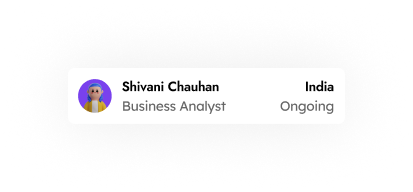
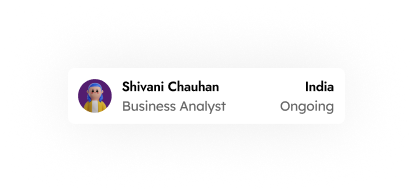
theme change

Changed region(s): [[0.1743, 0.4062, 0.2906, 0.5625]]

diff --git a/src/app/components/career.tsx b/src/app/components/career.tsx
@@ -1,6 +1,7 @@
 "use client";
-import React, { useRef } from "react";
-import { motion, useInView } from "framer-motion";
+
+import React, { useEffect, useState } from "react";
+import { motion } from "framer-motion";
 import Image from "next/image";
 
 const positions = [
@@ -35,14 +36,47 @@ const fadeInUp = {
 };
 
 const CareerSection = () => {
-  const ref = useRef(null);
-  const isInView = useInView(ref, { once: true });
+  const [scrollDuration, setScrollDuration] = useState(180);
+
+  useEffect(() => {
+    const handleResize = () => {
+      const isMobile = window.innerWidth < 768;
+      setScrollDuration(isMobile ? 260 : 100);
+    };
+
+    handleResize();
+    window.addEventListener("resize", handleResize);
+    return () => window.removeEventListener("resize", handleResize);
+  }, []);
+
+  const renderLoopingRow = (reverse = false) => (
+    <div className={`relative w-full overflow-hidden`}>
+      <motion.div
+        className={`flex space-x-3 ${reverse ? "flex-row-reverse" : ""}`}
+        animate={{ x: reverse ? ["0%", "-50%"] : ["-50%", "0%"] }}
+  transition={{ duration: scrollDuration, repeat: Infinity, ease: "linear" }}
+        style={{ width: "200%" }}
+      >
+        {[...images, ...images].map((src, index) => (
+          <div
+            key={`${reverse ? "r" : "f"}-${index}`}
+            className="flex-shrink-0 w-80 "
+          >
+            <Image
+              src={src}
+              alt={`Team ${index}`}
+              width={300}
+              height={200}
+              className="w-full h-60 object-cover rounded-xl"
+            />
+          </div>
+        ))}
+      </motion.div>
+    </div>
+  );
 
   return (
-    <section
-      ref={ref}
-      className="bg-gradient-to-br from-white via-[#f7e9ff] to-white py-16 overflow-x-hidden"
-    >
+    <section className="bg-gradient-to-br from-white via-[#f7e9ff] to-white py-16 overflow-x-hidden">
       {/* Header */}
       <motion.div
         variants={fadeInUp}
@@ -64,45 +98,21 @@ const CareerSection = () => {
       <motion.div
         variants={fadeInUp}
         initial="hidden"
-        animate={isInView ? "visible" : "hidden"}
+        animate="visible"
         className="space-y-3 mb-16"
       >
-        {/* Row 1 */}
-        <div className="flex overflow-x-auto scrollbar-hide space-x-3 px-2 md:px-0">
-          {images.map((src, index) => (
-            <div key={index} className="flex-shrink-0 w-64 sm:w-56">
-              <Image
-                src={src}
-                alt={`Team ${index}`}
-                width={300}
-                height={200}
-                className="w-full h-40 object-cover rounded-xl"
-              />
-            </div>
-          ))}
-        </div>
+        {/* Row 1 - Scroll Left to Right */}
+        {renderLoopingRow(false)}
 
-        {/* Row 2 */}
-        <div className="flex overflow-x-auto scrollbar-hide space-x-3 px-2 md:px-0 flex-row-reverse">
-          {images.map((src, index) => (
-            <div key={index} className="flex-shrink-0 w-64 sm:w-56">
-              <Image
-                src={src}
-                alt={`Team ${index + images.length}`}
-                width={300}
-                height={200}
-                className="w-full h-40 object-cover rounded-xl"
-              />
-            </div>
-          ))}
-        </div>
+        {/* Row 2 - Scroll Right to Left */}
+        {renderLoopingRow(true)}
       </motion.div>
 
       {/* Open Positions */}
       <motion.div
         variants={fadeInUp}
         initial="hidden"
-        animate={isInView ? "visible" : "hidden"}
+        animate="visible"
         className="max-w-3xl mx-auto px-4 md:px-10 lg:px-20"
       >
         <h3 className="text-2xl font-semibold mb-6 text-center">
@@ -127,7 +137,7 @@ const CareerSection = () => {
                   <p className="font-medium text-gray-900">{job.title}</p>
                   <p className="text-sm text-gray-400">{job.location}</p>
                 </div>
-                <span className="text-[#8224E3] text-xl">&rarr;</span>
+                <span className="text-primary text-xl">&rarr;</span>
               </motion.div>
             ))}
           </div>

diff --git a/src/app/components/Header.tsx b/src/app/components/Header.tsx
@@ -34,14 +34,14 @@ const Header = () => {
         </div>
 
         {/* Desktop Navigation */}
-        <div className="hidden md:flex items-center gap-6 text-lg">
+        <div className="hidden md:flex items-center gap-10 text-lg ">
           {navLinks.map((link) => (
             <Link
               key={link.name}
               href={link.href}
-              className={`relative overflow-hidden h-6  ${
+              className={`relative overflow-hidden h-7 px-1  ${
                 pathname === link.href
-                  ? "text-primary border-b-2 border-primary "
+                  ? "text-primary border-b-2 border-primary font-semibold pb-1 "
                   : "text-black"
               }`}
             >
@@ -74,7 +74,7 @@ const Header = () => {
           <div className="w-4/5 h-full bg-white text-black p-6 flex flex-col">
             {/* Close Button */}
             <button onClick={toggleDrawer} className="self-end mb-8">
-              <X size={28} className="text-[#8224E3] font-bold" />
+              <X size={28} className="text-primary font-bold" />
             </button>
 
             {/* Menu Links */}
@@ -86,8 +86,8 @@ const Header = () => {
                   onClick={toggleDrawer}
                   className={`text-lg leading-14 ${
                     pathname === link.href
-                      ? "text-[#8224E3] underline underline-offset-4"
-                      : "text-black hover:text-[#8224E3]"
+                      ? "text-primary underline underline-offset-4"
+                      : "text-black hover:text-primary"
                   }`}
                 >
                   {link.name}

diff --git a/src/app/components/ProductComponents/InsuranceSteps.tsx b/src/app/components/ProductComponents/InsuranceSteps.tsx
@@ -61,7 +61,7 @@ export default function InsuranceSteps() {
                 variants={stepVariants}
                 className={`text-left px-4 py-2 w-50 rounded-sm font-medium text-sm transition-all duration-200 ${
                   index === 0
-                    ? "bg-[#8224E3] text-white"
+                    ? "bg-primary text-white"
                     : "text-gray-800 hover:bg-gray-100"
                 }`}
               >
@@ -84,7 +84,7 @@ export default function InsuranceSteps() {
                     transition={{ type: "spring", stiffness: 300, damping: 20 }}
                     className={`w-24 h-24 rounded-full flex items-center justify-center text-sm font-medium border-4 transition-all duration-300 ${
                       isSelected
-                        ? "bg-[#8224E3] text-white border-[#8224E3]"
+                        ? "bg-primary text-white border-primary"
                         : "border-[#e0d4f5] text-gray-700"
                     }`}
                   >
@@ -98,7 +98,7 @@ export default function InsuranceSteps() {
               whileHover={{ scale: 1.05 }}
               whileTap={{ scale: 0.95 }}
               transition={{ type: "spring", stiffness: 300, damping: 20 }}
-              className="mt-4 bg-[#8224E3] hover:bg-[#6e1bd1] transition text-white px-6 py-2 rounded-md"
+              className="mt-4 bg-primary hover:bg-primary/95 transition text-white px-6 py-2 rounded-md"
             >
               Next
             </motion.button>

diff --git a/src/app/components/ProductComponents/WhyPrivateInsurance.tsx b/src/app/components/ProductComponents/WhyPrivateInsurance.tsx
@@ -23,7 +23,7 @@ export default function WhyPrivateInsurance() {
             More personalized coverage with optional add-ons for dental, vision,
             and travel.
           </p>
-          <button className="px-6 py-3 bg-[#8224E3] hover:bg-[#6d1dbf] text-white text-sm font-medium rounded-md shadow">
+          <button className="px-6 py-3 bg-primary hover:bg-primary/95 text-white text-sm font-medium rounded-md shadow">
             Check My Eligibility
           </button>
         </motion.div>
@@ -55,7 +55,7 @@ export default function WhyPrivateInsurance() {
                   <p className="text-sm text-gray-500">2500 USDT</p>
                   <p className="text-xs text-gray-400">$99,204.55</p>
                 </div>
-                <button className="text-xs bg-[#8224E3] text-white px-3 py-1 rounded-full">
+                <button className="text-xs bg-primary text-white px-3 py-1 rounded-full">
                   Withdraw
                 </button>
               </div>
@@ -65,7 +65,7 @@ export default function WhyPrivateInsurance() {
                   <p className="text-sm text-gray-500">2500 LINK</p>
                   <p className="text-xs text-gray-400">$97,560.15</p>
                 </div>
-                <button className="text-xs bg-[#8224E3] text-white px-3 py-1 rounded-full">
+                <button className="text-xs bg-primary text-white px-3 py-1 rounded-full">
                   Withdraw
                 </button>
               </div>

diff --git a/src/app/components/ProductComponents/productHeroSection.tsx b/src/app/components/ProductComponents/productHeroSection.tsx
@@ -5,7 +5,7 @@ import { motion } from "framer-motion";
 
 const ProductHeroSection = () => {
   return (
-    <section className="relative bg-[#8224E3] bg-gradient-to-br from-[#8224E3] to-[#9B5CE7] text-white py-24 px-4 md:px-10 lg:px-20 overflow-hidden">
+    <section className="relative bg-primary bg-gradient-to-br from-primary to-primary text-white py-24 px-4 md:px-10 lg:px-20 overflow-hidden">
       {/* Grid overlay */}
 
       <div className="relative z-10 text-center max-w-3xl mx-auto">
@@ -44,10 +44,10 @@ const ProductHeroSection = () => {
           transition={{ duration: 0.7, delay: 0.4 }}
           className="flex flex-col sm:flex-row gap-4 justify-center"
         >
-          <button className="bg-transparent border border-white text-white px-6 py-3 rounded-md hover:bg-white hover:text-[#8224E3] transition font-semibold">
+          <button className="bg-transparent border border-white text-white px-6 py-3 rounded-md hover:bg-white hover:text-primary transition font-semibold">
             Talk to an Advisor
           </button>
-          <button className="bg-white text-[#8224E3] px-6 py-3 rounded-md hover:opacity-90 transition font-semibold">
+          <button className="bg-white text-primary px-6 py-3 rounded-md hover:opacity-90 transition font-semibold">
             Check My Eligibility
           </button>
         </motion.div>

diff --git a/src/app/components/ProductBanner.tsx b/src/app/components/ProductBanner.tsx
@@ -34,7 +34,7 @@ export default function ProductBanner() {
         whileInView={{ opacity: 1, y: 0 }}
         transition={{ duration: 0.5 }}
         viewport={{ once: true }}
-        className="text-sm text-purple-700 font-medium mb-2"
+        className="text-sm text-primary font-medium mb-2"
       >
         When in Germany Think Insubre
       </motion.p>
@@ -63,7 +63,7 @@ export default function ProductBanner() {
               <div className="text-left z-10 sm:max-w-[70%] p-5">
                 <h3 className="text-lg font-semibold">{product.title}</h3>
                 <p className="text-sm text-white/80 mt-2">{product.desc}</p>
-                <button className="mt-4 bg-white text-purple-600 font-medium text-sm px-4 py-2 rounded-md shadow-sm hover:bg-purple-100 transition">
+                <button className="mt-4 bg-white text-primary font-medium text-sm px-4 py-2 rounded-md shadow-sm hover:bg-purple-100 transition">
                   Explore Plans
                 </button>
               </div>

diff --git a/src/app/components/Footer.tsx b/src/app/components/Footer.tsx
@@ -6,7 +6,7 @@ export default function Footer() {
   return (
     <div>
       <ContactBanner />
-      <footer className="bg-[#8224E3] text-white py-4 px-6 pt-50 -mt-58 relative z-10">
+      <footer className="bg-primary text-white py-4 px-6 pt-50 -mt-58 relative z-10">
         <div className="max-w-6xl mx-auto">
           <div className="flex flex-col md:flex-row justify-between gap-8">
             {/* Brand Info */}
@@ -14,7 +14,7 @@ export default function Footer() {
               {/* Logo */}
               <div className="text-2xl font-bold">
                 <Link href="/" className="font-bold font-serif">
-                  <Image src="/logo1.svg" alt="Logo" width={140} height={20} />
+                  <Image src="/icons/logo_white.png" alt="Logo" width={140} height={20} />
                 </Link>
               </div>{" "}
               <p className="text-sm text-gray-400 ">

diff --git a/src/app/components/ProductComponents/CardsSection.tsx b/src/app/components/ProductComponents/CardsSection.tsx
@@ -39,8 +39,8 @@ const CardsSection = () => {
         >
           <p className="text-sm font-medium text-gray-500">Upcoming Events</p>
           <ul className="mt-2 space-y-2 text-sm">
-            <li>📅 Bitcoin Halving – $44,000</li>
-            <li>🚀 Solana Partnership – $13,200</li>
+            <li> Bitcoin Halving – $44,000</li>
+            <li> Solana Partnership – $13,200</li>
           </ul>
         </motion.div>
 
@@ -58,7 +58,7 @@ const CardsSection = () => {
             {[60, 80, 100, 50].map((height, idx) => (
               <motion.div
                 key={idx}
-                className="bg-purple-500 w-4 rounded-t-md"
+                className="bg-primary w-4 rounded-t-md"
                 style={{ height: `${height}px` }}
                 initial={{ opacity: 0, y: 10 }}
                 animate={{ opacity: 1, y: 0 }}

diff --git a/src/app/components/ContactBanner.tsx b/src/app/components/ContactBanner.tsx
@@ -17,12 +17,12 @@ export default function ContactBanner() {
       <div className="p-8 md:p-12 flex-1 ">
         <h2 className="text-2xl md:text-3xl font-bold text-gray-900 mb-4 pr-10">
           Let us guide you to the best insurance with{" "}
-          <span className="text-purple-600">Insurbe</span>
+          <span className="text-primary">Insurbe</span>
         </h2>
         <p className="text-sm text-black mb-6">
           Get a quote in Less than 5 minutes
         </p>
-        <button className="bg-purple-600 text-white px-6 py-2 rounded shadow hover:bg-purple-700 transition">
+        <button className="bg-primary text-white px-6 py-2 rounded shadow hover:bg-primary/95 transition">
           Send Message
         </button>
       </div>

diff --git a/src/app/components/ProductComponents/OurServices.tsx b/src/app/components/ProductComponents/OurServices.tsx
@@ -127,7 +127,7 @@ export default function OurServices() {
               </motion.div>
 
               <motion.div className="mt-6 flex justify-center" variants={itemVariants}>
-                <button className="w-full py-2 px-4 border border-gray-300 text-black rounded-md transition-all duration-300 group-hover:bg-[#8224E3] group-hover:text-white group-hover:border-[#8224E3]">
+                <button className="w-full py-2 px-4 border border-gray-300 text-black rounded-md transition-all duration-300 group-hover:bg-primary group-hover:text-white group-hover:border-[#c59eec]">
                   Get Started
                 </button>
               </motion.div>

diff --git a/src/app/components/Expectations.tsx b/src/app/components/Expectations.tsx
@@ -57,7 +57,7 @@ export default function Expectations() {
         >
           <h2 className="text-3xl font-bold text-start text-gray-900 mb-2 px-2">
             We Actively Strive To Exceed Our <br /> Customers’{" "}
-            <span className="text-purple-600">Expectations</span>
+            <span className="text-primary">Expectations</span>
           </h2>
           <p className="text-start text-black text-sm sm:text-base mt-2 px-2">
             Best Offers at competitive prices, never seen before

diff --git a/src/app/components/FAQ.tsx b/src/app/components/FAQ.tsx
@@ -115,7 +115,7 @@ export default function FAQ() {
           viewport={{ once: true }}
           className="text-center pt-8"
         >
-          <button className="bg-purple-600 text-white px-6 py-2 rounded font-medium hover:bg-purple-700 transition">
+          <button className="bg-primary text-white px-6 py-2 rounded font-medium hover:bg-primary/95 transition">
             Ask a Question
           </button>
         </motion.div>
